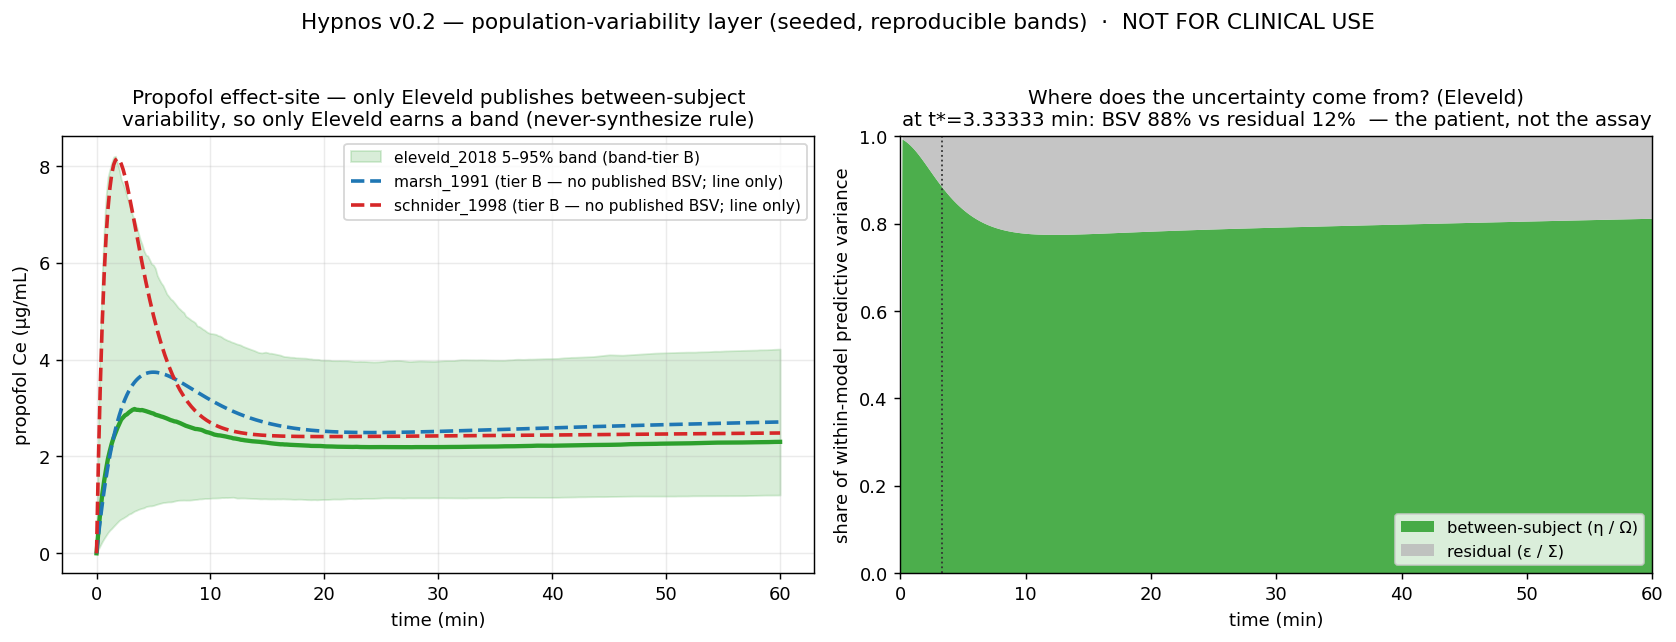
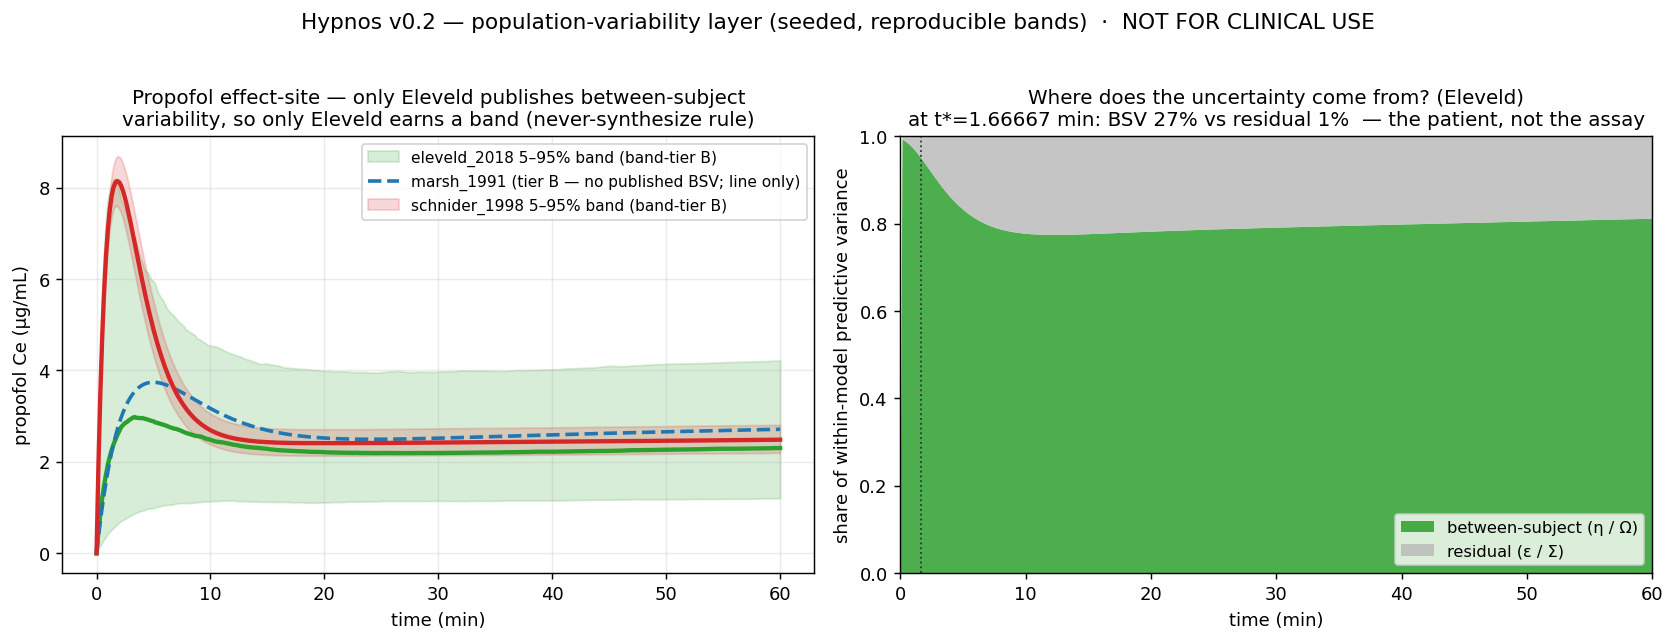
v0.2 data: source the BSV (Omega diagonal) for Minto/Kim/Schnider
The never-invent BSV backfill, largely closed via sourced cross-checks
(pending_human_review):

- Minto 1997 remifentanil: omega^2 for all 6 PK params + ke0, read from
  Minto's OWN NONMEM OUTPUT.17 $OMEGA in the Open-TCI archive (PRIMARY source).
- Kim 2017 remifentanil: the tci-package Kim Omega (CV% per param).
- Schnider 1998 propofol: the tci-package Schnider cv vector (V1/V3/CL/Q3;
  V2/Q2 carry no BSV in the Schnider model), variability_status "partial".

Now 4 flagship PK models carry curated Omega diagonals (was 1: Eleveld), so the
v0.2 separation index computes across multiple band-eligible models (propofol:
Eleveld+Schnider; remifentanil: Minto+Kim+Eleveld). Hannivoort dexmedetomidine
BSV stays not_found (primary table paywalled) -- honest residue.

499 tests pass; ruff clean; validate clean.

diff --git a/python/tests/test_variability.py b/python/tests/test_variability.py
@@ -310,11 +310,13 @@ def test_compare_bands_names_excluded(ds):
     cmp = hypnos.compare(ds, drug="propofol", patient=PATIENT, schedule=SCHED, t=t,
                          bands=True, seed=7, samples=200)
     excluded = {e["model_id"] for e in cmp.excluded_from_bands}
-    assert MARSH in excluded
+    assert MARSH in excluded                              # Marsh still publishes no BSV -> named, not dropped
     vs = cmp.divergence["ce"]["variance_share"]
     assert 0.0 <= vs["bsv"] <= 1.0
-    # only Eleveld is band-eligible => no separation index (needs >= 2)
-    assert "separation" not in cmp.divergence["ce"]
+    # Eleveld AND Schnider now carry curated BSV (sourced) -> the separation index computes
+    # across the >=2 band-eligible models (the v0.2 headter the data backfill unlocks).
+    assert "separation" in cmp.divergence["ce"]
+    assert cmp.divergence["ce"]["separation"]["percentile"] == [5, 95]
 
 
 # --------------------------------------------------------------------------- #

diff --git a/README.md b/README.md
@@ -934,7 +934,7 @@ hypnos.validate_dataset(ds)                                           # -> list 
 | **C — Breadth** | dexmedetomidine, ketamine, midazolam, fentanyl family; pediatric models with explicit Tier-D labeling | ✅ core shipped (dexmedetomidine + the pediatric pair Kataria & Paedfusor executable with explicit pediatric/geriatric extrapolation labeling and a live pediatric model-divergence; fentanyl curated, kernel pending; ketamine/midazolam roadmap) |
 | **D — Inhalational + NMB** | volatile MAC/partition/uptake; neuromuscular blockers + train-of-four; sugammadex reversal | ✅ core shipped (4 volatiles with MAC age-correction + additivity + solubility-driven wash-in (FA/FI uptake) and wash-out (FA/FA₀ emergence) all executable; rocuronium seeded with TOF PD; rocuronium PK kernel + sugammadex binding kinetics pending) |
 | **E — Hardening** | external-validation MDPE/MDAPE backfill; COMBINE `.omex`; Zenodo DOI | ✅ core shipped (deterministic `.omex` + BibTeX exporters; `scripts/regenerate.py`; `.zenodo.json` + `CHANGELOG.md`; external-validation MDPE/MDAPE backfilled across both headline drugs + dexmedetomidine, citation-integrity-checked and surfaced via `hypnos performance`; minted DOI on first tagged release) |
-| **v0.2 — Population-variability layer** | curate Ω/Σ random effects; seeded prediction bands; uncertainty-aware divergence (separation index + variance decomposition); export the NLME object ([spec](docs/specs/v0.2/variability.md)) | 🟢 V0–V3 export code shipped (Eleveld propofol Ω-diagonal + Σ curated `unverified` with the §4-trap validate checks; `simulate`/`compare --bands` draw seeded, reproducible bands with the never-synthesize rule; **every export carries the random-effects layer** — NONMEM `$OMEGA`/`$OMEGA BLOCK`/`$SIGMA`, PharmML `VariabilityModel`, nlmixr2/rxode2 + Pumas NLME companions, TCI-JSON, and SBML (Ω/Σ as `hypnos:` RDF); the **dashboard renders the bands as shaded ribbons** with the separation-index + variance-decomposition readout; the **PD effect (BIS) band** propagates PK BSV through the Hill link as an honest lower bound). **Remaining (data, not code):** BSV backfill for Schnider/opioids/dexmedetomidine and the PD-parameter (Ce50, γ) Ω — both await source-table confirmation, per never-invent |
+| **v0.2 — Population-variability layer** | curate Ω/Σ random effects; seeded prediction bands; uncertainty-aware divergence (separation index + variance decomposition); export the NLME object ([spec](docs/specs/v0.2/variability.md)) | 🟢 V0–V3 export code shipped (Eleveld propofol Ω-diagonal + Σ curated `unverified` with the §4-trap validate checks; `simulate`/`compare --bands` draw seeded, reproducible bands with the never-synthesize rule; **every export carries the random-effects layer** — NONMEM `$OMEGA`/`$OMEGA BLOCK`/`$SIGMA`, PharmML `VariabilityModel`, nlmixr2/rxode2 + Pumas NLME companions, TCI-JSON, and SBML (Ω/Σ as `hypnos:` RDF); the **dashboard renders the bands as shaded ribbons** with the separation-index + variance-decomposition readout; the **PD effect (BIS) band** propagates PK BSV through the Hill link as an honest lower bound). **BSV backfill largely done (sourced, `pending_human_review`):** Minto (from its own NONMEM $OMEGA in the Open-TCI archive), Kim, and Schnider (partial) Ω diagonals curated alongside Eleveld — so the separation index now computes across multiple band-eligible models. **Remaining:** Hannivoort dexmedetomidine Ω (paywalled) and the PD-parameter (Ce50, γ) Ω |
 | **v0.3 — Estimation-uncertainty layer** | 🟢 **E0–E3 shipped** — the per-θ `estimation_uncertainty`/`estimate_covariance` schema + `validate` traps + the `verify` group (E0); **seeded confidence bands** `simulate(bands=["confidence"])` (E1, far narrower than the prediction band); the estimation component folded into `compare`'s variance decomposition (E2); the per-θ estimation block in the NONMEM export (E3). **Eleveld 2018 propofol carries SOURCED per-θ estimation uncertainty** (`pending_human_review`; an agent read the open-access Table 2's 99% profile-likelihood CIs directly). **Remaining (never-invent data):** RSE backfill for the other models |
 | **v0.4 — External-validation layer** | 🟢 **VE0–VE3 shipped** — the Varvel engine + `validate_against_cohort`; the **VitalDB (BIS)** and **Open-TCI (cp)** adapters; the **cross-model, envelope-stratified leaderboard** (`cross_model_leaderboard`/`hypnos leaderboard`), run on **30 real VitalDB cases** (all propofol PK→BIS stacks at MDPE ≈ −33%, the synergy bias); the advisory **tier-falsification flag**; and the **VPC** (`visual_predictive_check`). **Remaining:** committed live metrics (terms-gated) + cross-model RSE backfill |
 | **v0.5 — Breadth (reversal + special populations)** | 🟢 **COMPLETE (S0/S1/B0/B1)** — the organ-function envelope + the binding failure mode (S0/S1); the **`reversal` subsystem** — sugammadex **encapsulation** (rocuronium→TOF recovers ~1%→98%), naloxone **competitive** antagonism with the **renarcotization** relapse, neostigmine **indirect** inhibition with the deep-block **ceiling** — via `simulate_reversal` + `hypnos reverse`; and the opt-in, Tier-D **`disease_state_modifier`** (dexmedetomidine clearance reduced in hepatic impairment, De Wolf 2001). The rocuronium PK kernel is now implemented (sourced, `pending_human_review`) |

diff --git a/docs/specs/v0.2/variability.md b/docs/specs/v0.2/variability.md
@@ -2,7 +2,7 @@
 
 **Curate the *random-effects* structure of each population PK/PD model — between-subject variability (η / Ω), residual error (ε / Σ), and where published, inter-occasion variability — alongside the typical-value parameters Hypnos already curates; propagate it through forward simulation as seeded Monte-Carlo prediction bands; and upgrade the model-divergence view from "the models' point estimates differ by *X*" to the sharper, more honest question: *do the models disagree beyond their own stated uncertainty?***
 
-> **Status:** **V0–V3 implemented (export code complete); only the never-invent BSV data backfill remains** (dataset/schema `0.2.0`). Extends [v0.1](../v0.1/spec.md) (which curates the fixed-effect / typical-value layer). Additive only — every v0.1 record stays valid; the variability block is optional and defaults to "not curated," which renders as an explicit gap, never as a fabricated band. Eleveld propofol now carries a verified-pathway (`unverified`) Ω-diagonal + Σ; `hypnos validate` enforces the §4 traps; `simulate`/`compare` draw seeded bands and the uncertainty-aware divergence; and **every export** carries the random-effects layer — NONMEM (`$OMEGA`/`$OMEGA BLOCK`/`$SIGMA`), PharmML (`VariabilityModel`), nlmixr2/rxode2 and Pumas (NLME companions), TCI-JSON (verbatim), and SBML (Ω/Σ as `hypnos:` RDF, since SBML core is deterministic) — including off-diagonal `$OMEGA BLOCK` where a complete correlated block is curated. See the roadmap (§12) for per-phase status and what remains (Schnider/opioid/dexmedetomidine BSV backfill — blocked on source-table confirmation, not on code).
+> **Status:** **V0–V3 implemented; the BSV data backfill is largely sourced — Eleveld (propofol), Minto + Kim (remifentanil), and Schnider (propofol, partial) now carry curated Ω diagonals (`pending_human_review`; Minto's from its OWN NONMEM $OMEGA output in the Open-TCI archive). Only Hannivoort dexmedetomidine BSV remains (primary table paywalled, honestly not_found).** (dataset/schema `0.2.0`). Extends [v0.1](../v0.1/spec.md) (which curates the fixed-effect / typical-value layer). Additive only — every v0.1 record stays valid; the variability block is optional and defaults to "not curated," which renders as an explicit gap, never as a fabricated band. Eleveld propofol now carries a verified-pathway (`unverified`) Ω-diagonal + Σ; `hypnos validate` enforces the §4 traps; `simulate`/`compare` draw seeded bands and the uncertainty-aware divergence; and **every export** carries the random-effects layer — NONMEM (`$OMEGA`/`$OMEGA BLOCK`/`$SIGMA`), PharmML (`VariabilityModel`), nlmixr2/rxode2 and Pumas (NLME companions), TCI-JSON (verbatim), and SBML (Ω/Σ as `hypnos:` RDF, since SBML core is deterministic) — including off-diagonal `$OMEGA BLOCK` where a complete correlated block is curated. See the roadmap (§12) for per-phase status and what remains (Schnider/opioid/dexmedetomidine BSV backfill — blocked on source-table confirmation, not on code).
 
 > This spec inherits v0.1's stance verbatim: *infrastructure, not a simulator; honest about uncertainty by default; a simulation is only as trustworthy as its weakest, least-validated input.* The variability layer is that stance taken one level deeper. v0.1 made **model-selection** uncertainty a first-class, machine-readable field. v0.2 makes **parametric / between-individual** uncertainty a first-class field too — and, crucially, makes the *relationship between the two* measurable.
 
